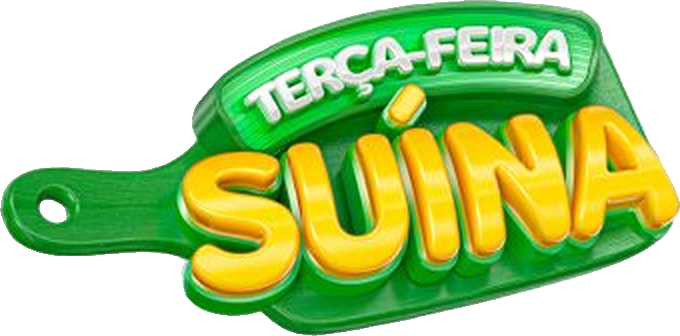
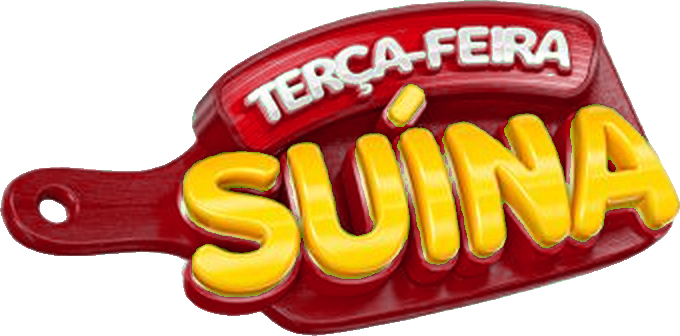
Fundo com brilho suave em vez de raios e selo Terça-feira Suína em vermelho
Claude-Session: https://claude.ai/code/session_01RMhrmHHqiLrkRgSW9CSLSh

diff --git a/src/Ofertas/ui.tsx b/src/Ofertas/ui.tsx
@@ -28,20 +28,22 @@ export const Fundo: React.FC<{ tipo?: TipoFundo }> = ({ tipo = "azul" }) => {
       : tipo === "vermelho"
         ? `radial-gradient(circle at 50% 42%, #ff4a4f 0%, ${COR.vermelho} 45%, #9e0f15 100%)`
         : "radial-gradient(circle at 50% 42%, #ffffff 0%, #f3f7fc 55%, #d9e6f5 100%)";
-  const raio = tipo === "branco" ? "rgba(26,138,230,0.06)" : "rgba(255,255,255,0.08)";
+  const brilho = tipo === "branco" ? "rgba(26,138,230,0.10)" : "rgba(255,255,255,0.16)";
+  // dois brilhos suaves que passeiam devagar pela tela inteira
+  const b1x = 30 + Math.sin(frame / 50) * 25;
+  const b1y = 30 + Math.cos(frame / 60) * 15;
+  const b2x = 70 + Math.cos(frame / 55) * 25;
+  const b2y = 75 + Math.sin(frame / 45) * 15;
   return (
-    <AbsoluteFill style={{ background: base, overflow: "hidden" }}>
-      <AbsoluteFill
-        style={{
-          left: -500,
-          right: -500,
-          top: -100,
-          bottom: -100,
-          background: `repeating-conic-gradient(from 0deg at 50% 45%, ${raio} 0deg 8deg, rgba(0,0,0,0) 8deg 20deg)`,
-          rotate: `${frame * 0.15}deg`,
-        }}
-      />
-    </AbsoluteFill>
+    <AbsoluteFill
+      style={{
+        background: [
+          `radial-gradient(circle at ${b1x}% ${b1y}%, ${brilho} 0%, rgba(0,0,0,0) 35%)`,
+          `radial-gradient(circle at ${b2x}% ${b2y}%, ${brilho} 0%, rgba(0,0,0,0) 35%)`,
+          base,
+        ].join(", "),
+      }}
+    />
   );
 };
 
